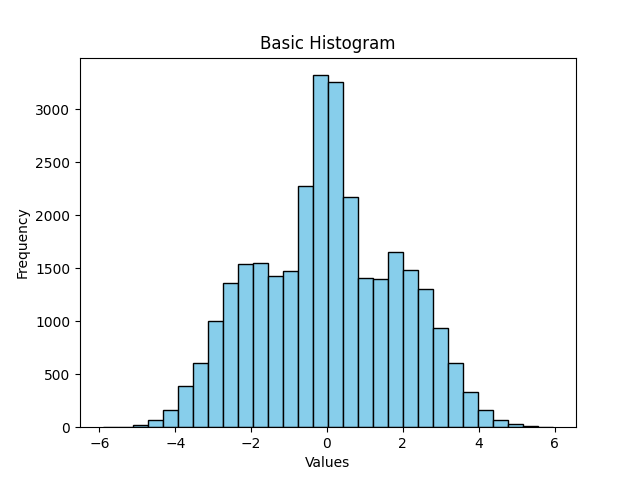
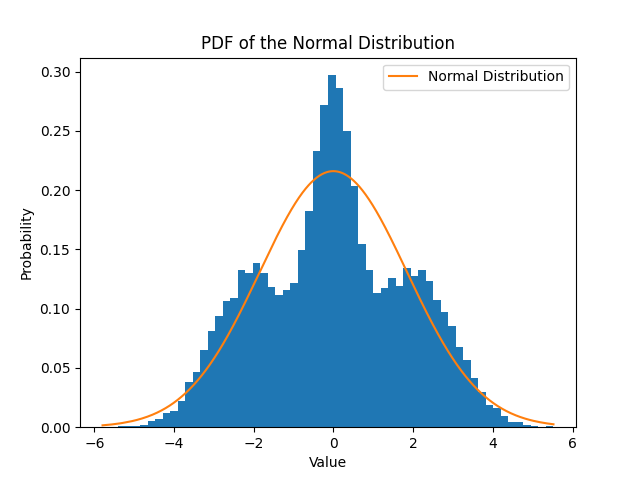
Working on what the mixtures even mean??

diff --git a/Homework_4/data_generation.py b/Homework_4/data_generation.py
@@ -1,7 +1,7 @@
 import numpy as np
 import pandas as pd
 import matplotlib.pyplot as plt
-import sklearn as skl
+from sklearn import mixture
 import sys
 import os
 from scipy.stats import norm
@@ -15,9 +15,26 @@ def plot_histogram(data,name):
     plt.ylabel('Frequency')
     plt.title('Basic Histogram')
     
-    # Display the plot
-    #plt.savefig(name+".png")
-    #print("saved")
+
+def plot_pdf(data,name):
+
+    # sort the data
+    data.sort()
+
+    # calculate the pdf
+    mu,sigma = norm.fit(data)
+    pdf = norm.pdf(data, loc=mu, scale=sigma)
+
+    # plot normalized histogram of the data
+    plt.hist(data,bins = 60, density = True)
+
+    # plot the pdf of the data
+    plt.plot(data, pdf, label='Normal Distribution')
+    plt.title('PDF of the Normal Distribution')
+    plt.xlabel('Value')
+    plt.ylabel('Probability')
+    plt.legend()
+
 def generate_data(means,variances,nelems):
     ret = []
     [ret.append(np.random.normal(loc = x,scale = y,size = nelems)) for x,y in zip(means,variances)]
@@ -35,17 +52,14 @@ def main():
     # concatentae all vectors into 30,000 element list
     total_points = []
     [total_points.extend(x) for x in vectors]
-    print(len(total_points))
 
-    # calculate the pdf
-    pdf = norm.pdf(total_points, np.mean(total_points), np.mean(variances))
-    plot_histogram(total_points,"q1")
-    plt.plot(total_points, pdf, label='Distribuzione Normale')
-    plt.title('PDF of the Normal Distribution')
-    plt.xlabel('Value')
-    plt.ylabel('Probability')
-    plt.legend()
-    plt.show()
+
+    #plot_pdf(total_points,"q1")
+    #plt.cla()
+
+    # single mixture
+    GM_1 = mixture.GaussianMixture(1)
+    print(GM_1.fit(total_points))
     
 
 main()
